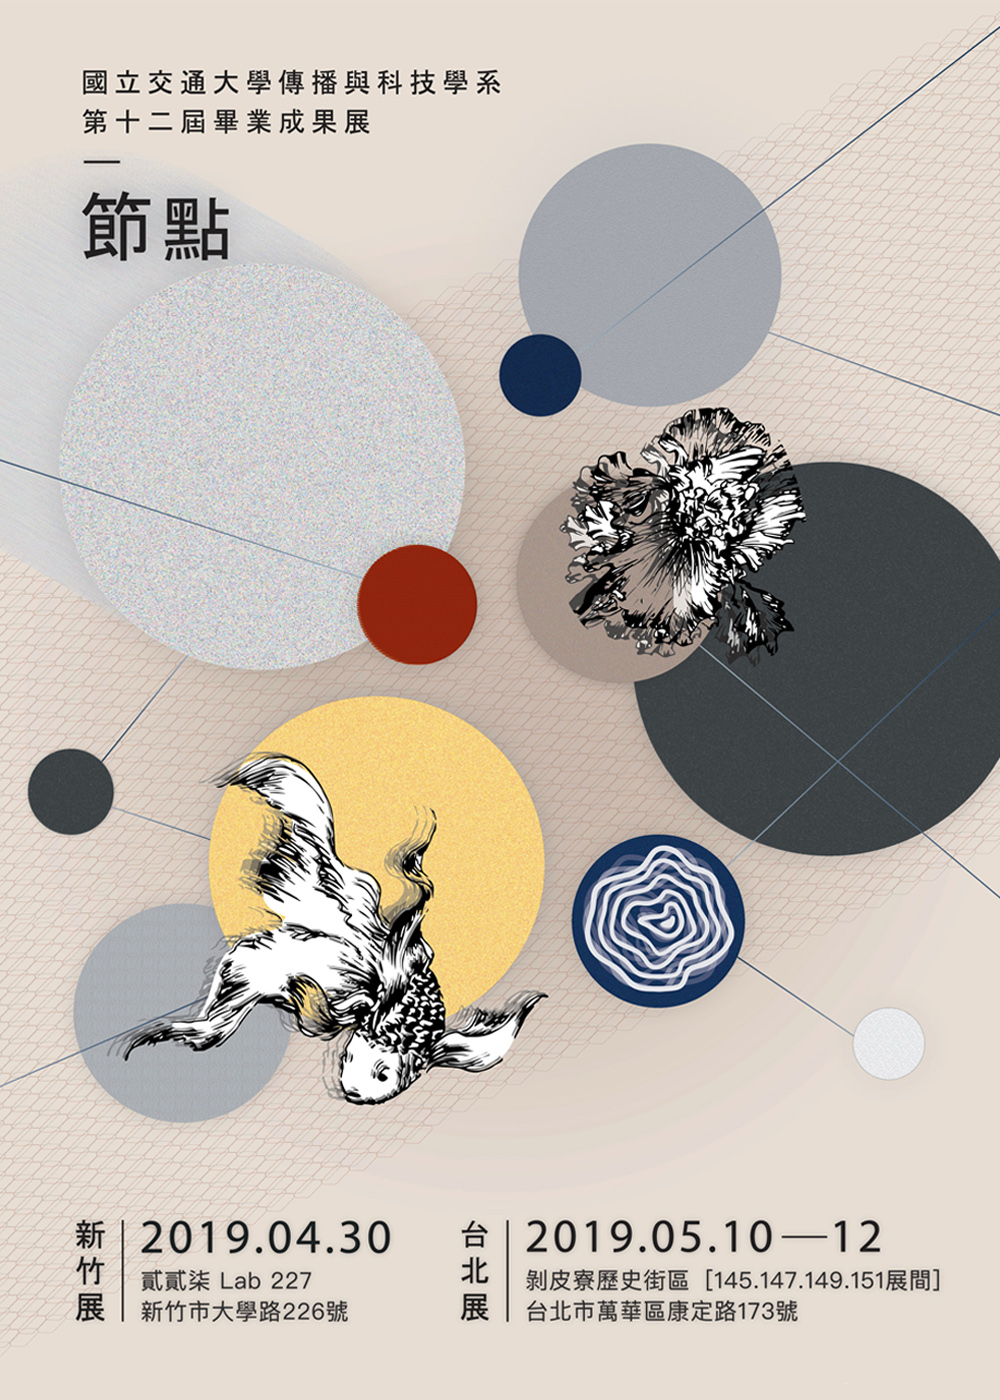
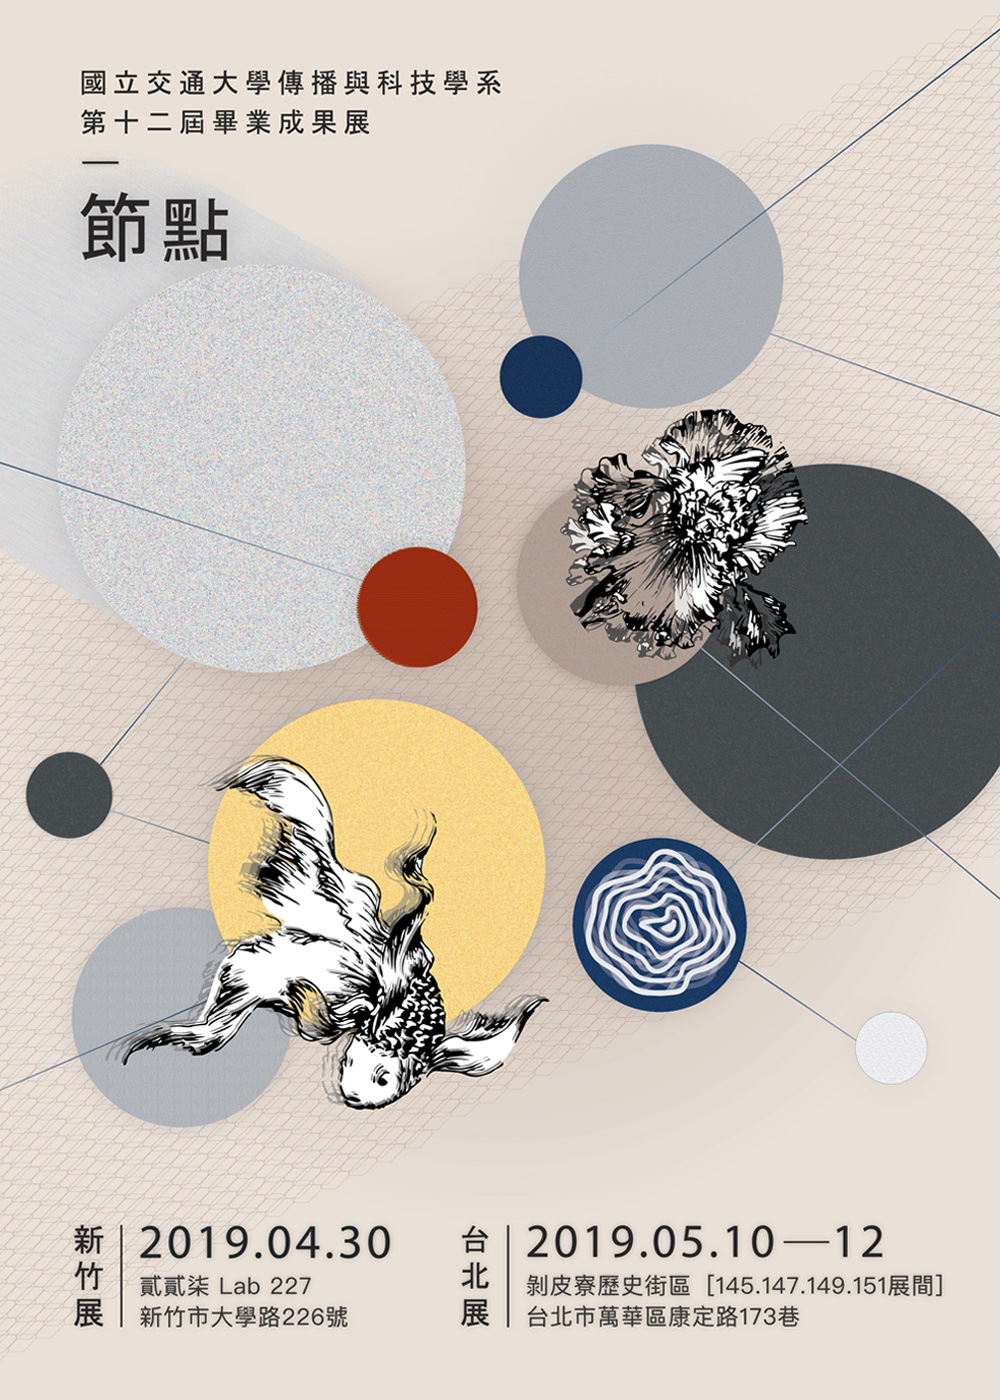
solve the reload problem

diff --git a/marketing.html b/marketing.html
@@ -51,18 +51,18 @@
 			
 			<h1>網路線上活動｜心理測驗</h1>
 
-			<div class="col-m-6 col-9"> 
+			<div class="col-m-6 col-8"> 
 				<a class="fancybox" rel="gallery4" href="images/red_1024x550.jpg" tilte="JOY"><img src="images/red_1024x550.jpg"></a>
 			</div>
         
-			<div class="col-m-6 col-3">
+			<div class="col-m-6 col-4">
 				<div class="desbox">
 					<h3>活動內容</h3>
 					<p>
-						心理測驗活動在交大傳科系畢業成果展臉書粉絲專頁進行，透過私訊問題點選，秒測你的愛情觀。只要你將問題作答完畢，就可以獲得校內實體活動－攔節點心的杯子蛋糕折價券！趕快來玩玩看！
+						心理測驗活動在交大傳科系畢業成果展臉書粉絲專頁進行，透過私訊問題點選，秒測你的愛情觀。只要你將問題作答完畢，就可以獲得校內實體活動"攔節點心"的杯子蛋糕折價券！趕快來玩玩看！
 					</p>
 					<h3>活動地點與時間</h3>
-					<p><small>線上測驗</small> 2019/3/30 起</p>
+					<p><small>&nbsp;線上測驗&nbsp;</small> 2019.03.30 起</p>
 				</div>
 			</div>
 		</div>
@@ -76,20 +76,17 @@
 					<h3>活動內容</h3>
 					<p>我們在清交兩校舉辦「攔節點心」的活動，
 					透過主題點心與遊戲活動，希望促進兩校學生認識到傳科學生的畢業作品，
-					同時利用網路擴散，期待吸引兩校同學的注意來參加展覽。<br>
-					我們販賣杯子蛋糕以及發起畫畫比賽，且只要購買杯子蛋糕就可以參加畫畫比賽！
-					用點與線成功畫出指定題目後，拍照打卡上傳到交大傳科畢業成果展粉絲專頁，擁有留言數最多的前三名就能獲得最少一箱啤酒！
-					活動過程中，我們會簡介指定的作品，而校內展當天會有各組進行作品內容分享，歡迎有興趣的人至貳貳柒 Lab227 餐酒館參展！
+					只要購買杯子蛋糕就能參加畫畫比賽，用點與線成功畫出指定題目後，拍照打卡上傳到交大傳科畢業成果展粉絲專頁，擁有留言數最多的前三名就能獲得更大好禮！
 					</p>
 					<h3>活動地點與時間</h3>
 					<h4>交通大學</h4>
 						<p>
-						<small>女二舍餐廳</small> 2019/4/9、4/10<br>
-						<small>第二餐廳</small> 2019/4/11、4/12
+						<small>&nbsp;女二舍餐廳&nbsp;</small> 2019.04.09－04.10<br>
+						<small>&nbsp;第二餐廳&nbsp;</small> 2019.04.11－04.12
 						</p>
 					<h4>清華大學</h4>
 						<p>
-						<small>小吃部餐廳（野台廣場）</small> 2019/4/8
+						<small>&nbsp;小吃部餐廳（野台廣場）</small> 2019.04.08
 						</p>
 					</p>
 				</div>
@@ -126,7 +123,7 @@
 					並參加我們正式的台北展。小遊戲包含翻翻樂與紙捲迷宮，而遊戲內容的圖像都是我們各組畢展作品的主視覺，只要與我們玩遊戲後，拍照打卡上傳臉書，就能獲得精美禮品！詳細時間請持續追蹤交大傳科系畢業成果展臉書粉絲專頁！
 					</p>
 					<h3>活動地點與時間</h3>
-					<p><small>台北各大學校園</small> 2019/4/22－5/3</p>
+					<p><small>&nbsp;台北各大學校園&nbsp;</small> 2019.04.22－05.03</p>
 				</div>
 			</div>
 			
@@ -149,7 +146,7 @@
 						<p>我們會在台北地區部分高中校門口發放畢展宣傳單，並且隨機附贈好禮送給有興趣參展的高中生，希望拓展高中生對交大傳科系的認識。未實際跑校的高中，我們將會另外寄送宣傳海報，同時也會與有大眾傳播性質的高中社團合作，在社團內代我們宣傳台北展覽。詳細時間請持續追蹤交大傳科系畢業成果展臉書粉絲專頁！
 						</p>
 						<h3>活動地點與時間</h3>
-						<p><small>台北各高中校門口</small> 2019/4/22－5/3</p>
+						<p><small>&nbsp;台北各高中校門口&nbsp;</small> 2019.04.22－05.03</p>
 					</div>
 				</div>
 				

diff --git a/works.html b/works.html
@@ -510,13 +510,13 @@
 						<h2>主題概念</h2>
 								<p>希望讓玩家透過VR遊戲身歷其境，達到讓大家重新反思動物表演的議題的目的。
 								</p>
-						<!--<h2>相關連結</h2>
+						<h2>相關連結</h2>
 							<div class="linkbox">
-								<a href="http://dct.nctu.edu.tw/main.php"  target="_blank"><h3>臉書粉專</h3></a>
-								<a href="http://dct.nctu.edu.tw/main.php"  target="_blank"><h3>作品網站</h3></a>
+								<a href="hhttps://www.facebook.com/VRGameTheEscape"  target="_blank"><h3>臉書粉專</h3></a>
+								<!--<a href="http://dct.nctu.edu.tw/main.php"  target="_blank"><h3>作品網站</h3></a>
 								<a href="http://dct.nctu.edu.tw/main.php"  target="_blank"><h3>遊戲連結</h3></a>
-								<a href="http://dct.nctu.edu.tw/main.php"  target="_blank"><h3>宣傳影片</h3></a>
-							</div>-->
+								<a href="http://dct.nctu.edu.tw/main.php"  target="_blank"><h3>宣傳影片</h3></a>-->
+							</div>
 			
 					</div>
 				</div>

diff --git a/index.html b/index.html
@@ -8,8 +8,7 @@
 	
 	<!-- Add jQuery library -->
 	<script type="text/javascript" src="https://cdnjs.cloudflare.com/ajax/libs/jquery/3.3.1/jquery.min.js"></script>
-	<!--js-->
-	<script type="text/javascript" src="js/click_index.js"></script>
+	
 </head>
 
 
@@ -66,9 +65,9 @@
 						<h5>台北展</h5>
 						<p>
 							時間：<br>
-							2019.5.10(五) 12:00－17:30<br>
-							2019.5.11(六) 9:30－17:30<br>
-							2019.5.12(日) 9:30－17:00<br>
+							2019.05.10(五) 12:00－17:30<br>
+							2019.05.11(六) 9:30－17:30<br>
+							2019.05.12(日) 9:30－17:00<br>
 							地點：台北市萬華區康定路173巷<br>
 							（台北剝皮寮歷史街區 [145.147.149.151展間]）
 						</p>
@@ -270,6 +269,6 @@
 		<!--js-->
 		<script type="text/javascript" src="js/e0.js"></script>
 		<script type="text/javascript" src="js/arrowscroll.js"></script>
-
+		<script type="text/javascript" src="js/click_index.js"></script>
 </body>
 </html>

diff --git a/css/marketing.css b/css/marketing.css
@@ -242,7 +242,7 @@ article img{
 	margin: 5px auto;
 }
 h4{
-	text-align: left
+	text-align: left;
 }
 
 /*===================rwd details===========================*/

diff --git a/css/information.css b/css/information.css
@@ -252,7 +252,7 @@ h2{
 	font-size: 18px;
 }
 .desbox0{
-	line-height:2.1em;
+	line-height:2em;
 	box-sizing:border-box;
 	text-align:justify; /*文字等寬*/
 }
